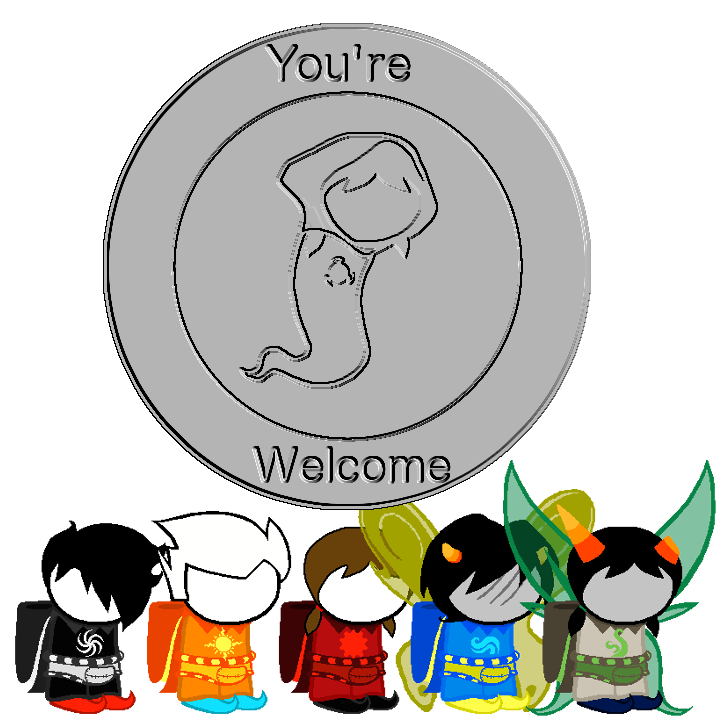
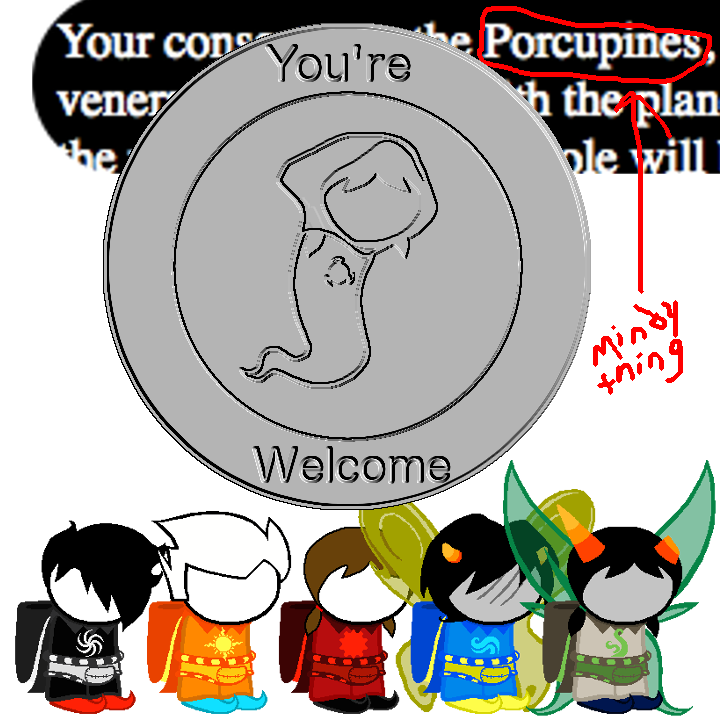
LORAS

Changed region(s): [[0.0306, 0.0, 1.0, 0.3972], [0.825, 0.3972, 0.9472, 0.55]]

diff --git a/javascripts/fraymotif.js b/javascripts/fraymotif.js
@@ -25,7 +25,7 @@ function Fraymotif(aspects, name,tier){
 			this.effects.push(effect);
 		}
 	}
-	
+
 	this.getCasters = function(owner, allies){
 		//first check to see if all aspects are included in the allies array.
 		var casters = [owner];
@@ -37,7 +37,7 @@ function Fraymotif(aspects, name,tier){
 		}
 		return casters;  //eventually do smarter things, like only allow to cast buff hp if heals are needed or anybody is dead.
 	}
-	
+
 	//allies is NOT just who is helping to cast the fraymotif. it is everyone.
 	this.useFraymotif = function(owner, allies, enemies){
 		var casters = this.getCasters(owner, allies);
@@ -177,7 +177,7 @@ function FraymotifCreator(session){
     var name = this.getFraymotifName(players, tier);
 	var aspects = [];
 	for(var i = 0; i<players.length; i++){
-		if(aspects.indexOf(players[i].aspect) == -1) aspects.push(players[i].aspect); //if multiple of the same aspect is included here, just ignore. 
+		if(aspects.indexOf(players[i].aspect) == -1) aspects.push(players[i].aspect); //if multiple of the same aspect is included here, just ignore.
 	}
     var f= new Fraymotif(aspects, name, tier);
 	f.addEffectsForPlayers(players);
@@ -196,7 +196,7 @@ function FraymotifEffect(statName, target, damageInsteadOfBuff){
 	this.a = 1;
 	this.e = 2;
 	this.e2 = 3;
-	
+
 	this.setEffectForPlayer = function(player){
 		var effect = new FraymotifEffect("",this.e, true); //default to just damaging the enemy.
 		if(player.class_name == "Knight") effect = getRandomElementFromArray(this.knightEffects());
@@ -204,7 +204,7 @@ function FraymotifEffect(statName, target, damageInsteadOfBuff){
 		this.damageInsteadOfBuff = effect.damageInsteadOfBuff;
 		this.statName = getRandomElementFromArray(player.getOnlyPositiveAspectAssociatedStats()).name; //TODO if I know it's a debuff, maybe debuff the things that are negative for me?
 	}
-	
+
 	//preliminary design detailed here: https://docs.google.com/spreadsheets/d/1kam2FnKJiek6DidDpQdSnR3Wl9-vk1oZBa0pPpxlJk4/edit#gid=0
 	//knights protect themselves and hurt the enemy
 	this.knightEffects = function(){
@@ -213,52 +213,55 @@ function FraymotifEffect(statName, target, damageInsteadOfBuff){
 
 		//if only targeting one ally or one enemy, how do you pick? if ally best friend, if enemy, strongest enemy? (if hp boost, instead pick ally with lowest hp (or dead)).
 	/*
-		base damage * 1, 2, or 3 for each stat. 
-		
+		base damage * 1, 2, or 3 for each stat.
+
 		for each stat, sum the values of the stat for allies, and subtract the values for the stat for the enemies.
 		if final value < baseDamage, damage = baseDaamge.  if final > base < 2Base, damage = 2base;  if final > 2base, damage = 3base;
-		
+
 		STATNAME is always used, btw.  Either it is directly the thing being buffed or debuffed, or if damage it is what is used for damage calc.
 		This DOES mean that buffing hp is the same thing as damage/healing. whatever.
-		
-		
+
+
 	*/
 	this.applyEffect = function(owner,allies, casters,  enemies, baseValue){
-		console.log("TODO: calculate  damage by all statName values for all involved users - all involved enemies ")
 		var strifeValue = this.processEffectValue(casters, enemies);
 		var effectValue = baseValue;
 		if(strifeValue < baseValue) effectValue = baseValue;
 		if(strifeValue > baseValue && strifeValue < (2 * baseValue)) effectValue = 2 *baseValue;
 		if(strifeValue > (2* baseValue)) effectValue = 3 *baseValue;
-		
+
 		//now, i need to USE this effect value.  is it doing "damage" or "buffing"?
 		if(this.target == this.e || this.target == this.e2) effectValue = effectValue * -1;  //do negative things to the enemy.
 		var targetArr = this.chooseTargetArr(owner, allies, casters, enemies);
+    console.log(["target chosen: ", targetArr])
 		if(this.damageInsteadOfBuff){
+      console.log("applying damage: " + targetArr.length)
 			this.applyDamage(targetArr, effectValue);
 		}else{
+      console.log("applying buff")
 			this.applyBuff(targetArr, effectValue);
 		}
 	}
-	
+
 	this.chooseTargetArr = function(owner, allies, casters, enemies){
 		console.log(["potential targets: ",owner, allies, casters, enemies]);
-		if(this.target == this.s) return owner;
+		if(this.target == this.s) return [owner];
 		if(this.target == this.a) return allies;
-		if(this.target == this.e) return getRandomElementFromArray(enemies); //TODO eventually make this smart.
+		if(this.target == this.e) return [getRandomElementFromArray(enemies)]; //TODO eventually make this smart.
 		if(this.target == this.e2) return enemies;
 	}
-	
+
 	//targetArr is always an array, even if only 1 thing inside of it.
 	this.applyDamage = function(targetArr, effectValue){
 		var e = effectValue/targetArr.length;  //more potent when a single target.
+    console.log(["applying damage", effectValue, targetArr.length, e])
 		for(var i = 0; i<targetArr.length; i++){
 			var t = targetArr[i];
 			t.currentHP += e;
 			t.dead = false;
 		}
 	}
-	
+
 	this.applyBuff = function(targetArr, effectValue){
 		var e = effectValue/targetArr.length; //more potent when a single target.
 		for(var i = 0; i<targetArr.length; i++){
@@ -272,7 +275,7 @@ function FraymotifEffect(statName, target, damageInsteadOfBuff){
 			}
 		}
 	}
-	
+
 	this.processEffectValue = function(casters, enemies){
 		var ret = 0;
 		for(var i = 0; i<casters.length; i++ ){
@@ -284,9 +287,9 @@ function FraymotifEffect(statName, target, damageInsteadOfBuff){
 					ret += tmp.relationships[j].value
 				}
 			}
-			
+
 		}
-		
+
 		for(var i = 0; i< enemies.length; i++ ){
 			var tmp = casters[i];
 			if(this.statName != "RELATIONSHIPS"){
@@ -296,11 +299,11 @@ function FraymotifEffect(statName, target, damageInsteadOfBuff){
 					ret += -1* tmp.relationships[i].value
 				}
 			}
-			
+
 		}
 		return ret;
 	}
-	
+
 	this.toString = function(){
 		var ret = "";
 		if(this.damageInsteadOfBuff && this.target < 2){
@@ -312,7 +315,7 @@ function FraymotifEffect(statName, target, damageInsteadOfBuff){
 		}else if(!this.damageInsteadOfBuff && this.target >= 2){
 			ret += " Debuffs"
 		}
-		
+
 		if(this.target == 0){
 			ret += " Self"
 		}else if(this.target ==1){
@@ -322,7 +325,7 @@ function FraymotifEffect(statName, target, damageInsteadOfBuff){
 		}else if(this.target ==3){
 			ret += " All Enemies"
 		}
-		
+
 		ret += " Based On " + this.statName
 		return ret;
 	}

diff --git a/javascripts/player.js b/javascripts/player.js
@@ -1058,7 +1058,7 @@ function Player(session,class_name, aspect, object_to_prototype, moon, godDestin
 		}
 
 		this.power += powerBoost;
-		
+
 		this.associatedStatsIncreasePower(powerBoost);
 		//gain a bit of hp, otherwise denizen will never let players fight them if their hp isn't high enough.
 		if(this.godTier || Math.seededRandom() >.85){
@@ -1370,7 +1370,7 @@ function Player(session,class_name, aspect, object_to_prototype, moon, godDestin
 	this.getHP= function(){
 		return this.currentHP;
 	}
-	
+
 	this.getMaxHP= function(){
 		return this.hp;
 	}
@@ -1801,7 +1801,7 @@ function Player(session,class_name, aspect, object_to_prototype, moon, godDestin
 				console.log('What the hell kind of class is ' + this.class_name + '???');
 		}
 	}
-	
+
 	this.getOnlyAspectAssociatedStats = function(){
 		var ret = [];
 		for(var i = 0; i<this.associatedStats.length; i++){
@@ -1809,7 +1809,7 @@ function Player(session,class_name, aspect, object_to_prototype, moon, godDestin
 		}
 		return ret;
 	}
-	
+
 	this.getOnlyPositiveAspectAssociatedStats = function(){
 		var ret = [];
 		for(var i = 0; i<this.associatedStats.length; i++){
@@ -1817,7 +1817,7 @@ function Player(session,class_name, aspect, object_to_prototype, moon, godDestin
 		}
 		return ret;
 	}
-	
+
 	this.getOnlyNegativeAspectAssociatedStats = function(){
 		var ret = [];
 		for(var i = 0; i<this.associatedStats.length; i++){
@@ -1934,20 +1934,20 @@ function Player(session,class_name, aspect, object_to_prototype, moon, godDestin
 
 	//["power","hp","RELATIONSHIPS","mobility","sanity","freeWill","maxLuck","minLuck","alchemy"];
 	this.getInterestAssociatedStats = function(interest){
-		if(pop_culture_interests.indexOf(interest) != -1) return [new AssociatedStat("mobility",2)];
-		if(music_interests.indexOf(interest) != -1) return [new AssociatedStat("sanity",1),new AssociatedStat("maxLuck",1)];
-		if(culture_interests.indexOf(interest) != -1) return [new AssociatedStat("sanity",-1),new AssociatedStat("hp",-1)]; //SBURB is NOT high art.
-		if(writing_interests.indexOf(interest) != -1) return [new AssociatedStat("freeWill",2)];  //they know how stories go.
-		if(technology_interests.indexOf(interest) != -1) return [new AssociatedStat("alchemy",2)];
-		if(social_interests.indexOf(interest) != -1) return [new AssociatedStat("sanity",2)];
-		if(romantic_interests.indexOf(interest) != -1)return [new AssociatedStat("RELATIONSHIPS",2)];
-		if(academic_interests.indexOf(interest) != -1) return [new AssociatedStat("freeWill",-2)]; //dont' get so caught up in how the old rules worked
-		if(comedy_interests.indexOf(interest) != -1) return [new AssociatedStat("minLuck",-1),new AssociatedStat("maxLuck",1)]; //hilarious (to SBURB) pratfalls abound.
-		if(domestic_interests.indexOf(interest) != -1) return [new AssociatedStat("sanity",1),new AssociatedStat("RELATIONSHIPS",1)];
-		if(athletic_interests.indexOf(interest) != -1) return [new AssociatedStat("power",2)]; //so STRONG
-		if(terrible_interests.indexOf(interest) != -1) return [new AssociatedStat("RELATIONSHIPS",-1), new AssociatedStat("sanity",-1)];
-		if(fantasy_interests.indexOf(interest) != -1) return [new AssociatedStat("maxLuck",1),new AssociatedStat("alchemy",1)];
-		if(justice_interests.indexOf(interest) != -1) return [new AssociatedStat("power",1),new AssociatedStat("hp",1)];
+		if(pop_culture_interests.indexOf(interest) != -1) return [new AssociatedStat("mobility",2, true)];
+		if(music_interests.indexOf(interest) != -1) return [new AssociatedStat("sanity",1, true),new AssociatedStat("maxLuck",1, true)];
+		if(culture_interests.indexOf(interest) != -1) return [new AssociatedStat("sanity",-1, true),new AssociatedStat("hp",-1, true)]; //SBURB is NOT high art.
+		if(writing_interests.indexOf(interest) != -1) return [new AssociatedStat("freeWill",2, true)];  //they know how stories go.
+		if(technology_interests.indexOf(interest) != -1) return [new AssociatedStat("alchemy",2, true)];
+		if(social_interests.indexOf(interest) != -1) return [new AssociatedStat("sanity",2, true)];
+		if(romantic_interests.indexOf(interest) != -1)return [new AssociatedStat("RELATIONSHIPS",2, true)];
+		if(academic_interests.indexOf(interest) != -1) return [new AssociatedStat("freeWill",-2, true)]; //dont' get so caught up in how the old rules worked
+		if(comedy_interests.indexOf(interest) != -1) return [new AssociatedStat("minLuck",-1, true),new AssociatedStat("maxLuck",1, true)]; //hilarious (to SBURB) pratfalls abound.
+		if(domestic_interests.indexOf(interest) != -1) return [new AssociatedStat("sanity",1, true),new AssociatedStat("RELATIONSHIPS",1, true)];
+		if(athletic_interests.indexOf(interest) != -1) return [new AssociatedStat("power",2, true)]; //so STRONG
+		if(terrible_interests.indexOf(interest) != -1) return [new AssociatedStat("RELATIONSHIPS",-1, true), new AssociatedStat("sanity",-1, true)];
+		if(fantasy_interests.indexOf(interest) != -1) return [new AssociatedStat("maxLuck",1, true),new AssociatedStat("alchemy",1, true)];
+		if(justice_interests.indexOf(interest) != -1) return [new AssociatedStat("power",1, true),new AssociatedStat("hp",1, true)];
 	}
 
 

diff --git a/javascripts/landOfRodsAndScreens.js b/javascripts/landOfRodsAndScreens.js
@@ -579,6 +579,8 @@ function quip(state){
 		ret = "Best bulbasaur!"
 	} else if(state == 101){
 		ret = "Holy shit, how old IS that picture???"
+	} else if(state == 101){
+		ret = "Holy shit, classic 'You're Welcome' x2 combo. I added the cod piece as an easter egg AND I am showing you the way to turn on the Mindy Thing without waiting for 5 whole minutes. Truly, my magnanimity is breath taking."
 	}  else{
 		ret = "???"
 	}
